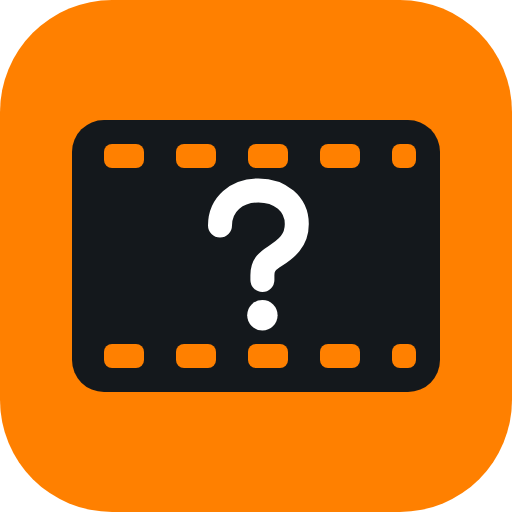
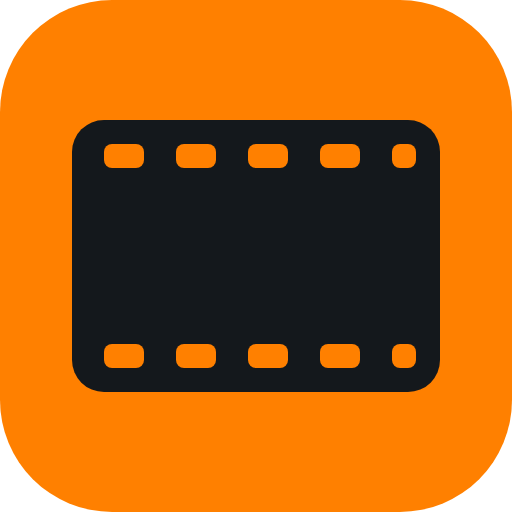
Логотип без вопросительного знака
Claude-Session: https://claude.ai/code/session_01WJmmmmGUXkCBBrVwbobDHD

Changed region(s): [[0.4062, 0.3438, 0.625, 0.6562]]

diff --git a/index.html b/index.html
@@ -11,7 +11,7 @@
 <meta property="og:title" content="Угадай фильм по кадру">
 <meta property="og:description" content="Узнай фильм по одному кадру: топ-250 IMDb, Letterboxd и Кинопоиска, фильм дня и игры с друзьями онлайн">
 <meta property="og:url" content="https://tj7hmm4br7-ops.github.io/kadr/">
-<meta property="og:image" content="https://tj7hmm4br7-ops.github.io/kadr/og.jpg">
+<meta property="og:image" content="https://tj7hmm4br7-ops.github.io/kadr/preview.jpg">
 <meta property="og:image:width" content="1200">
 <meta property="og:image:height" content="630">
 <meta property="og:image:alt" content="Угадай фильм по кадру">
